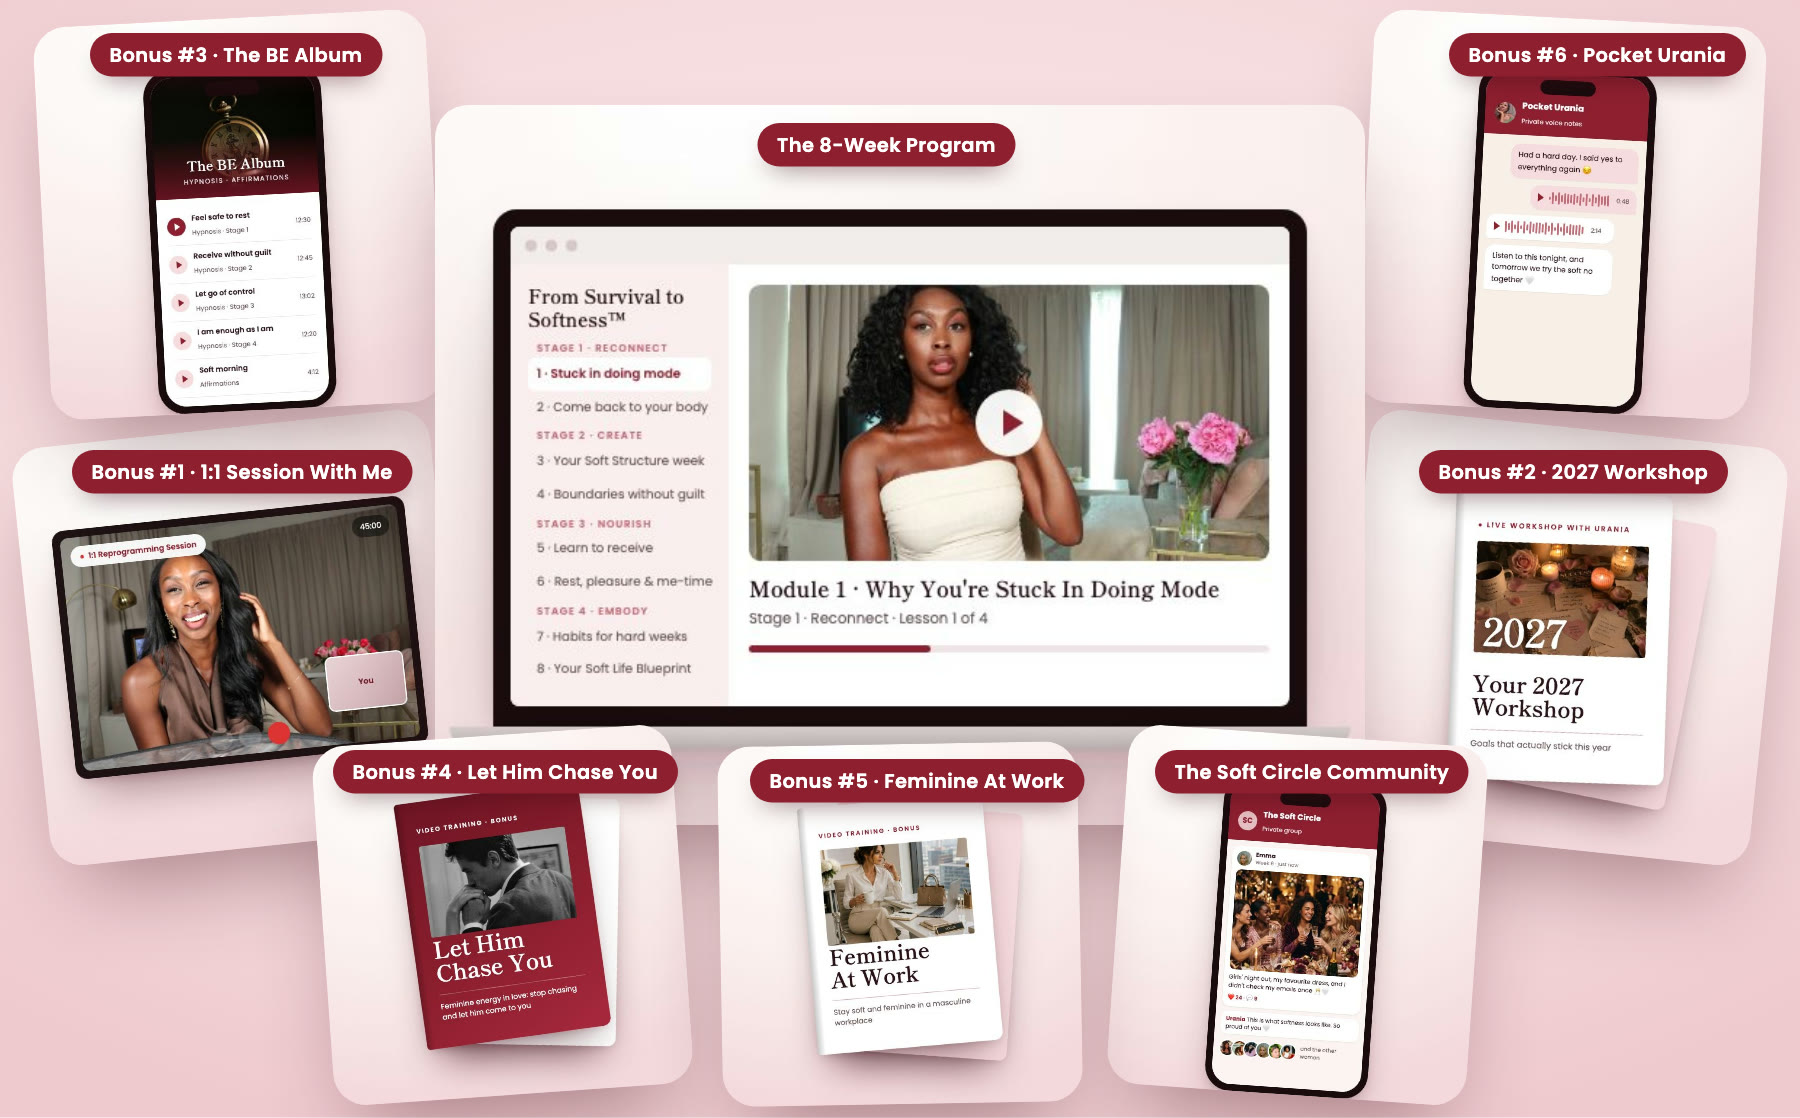
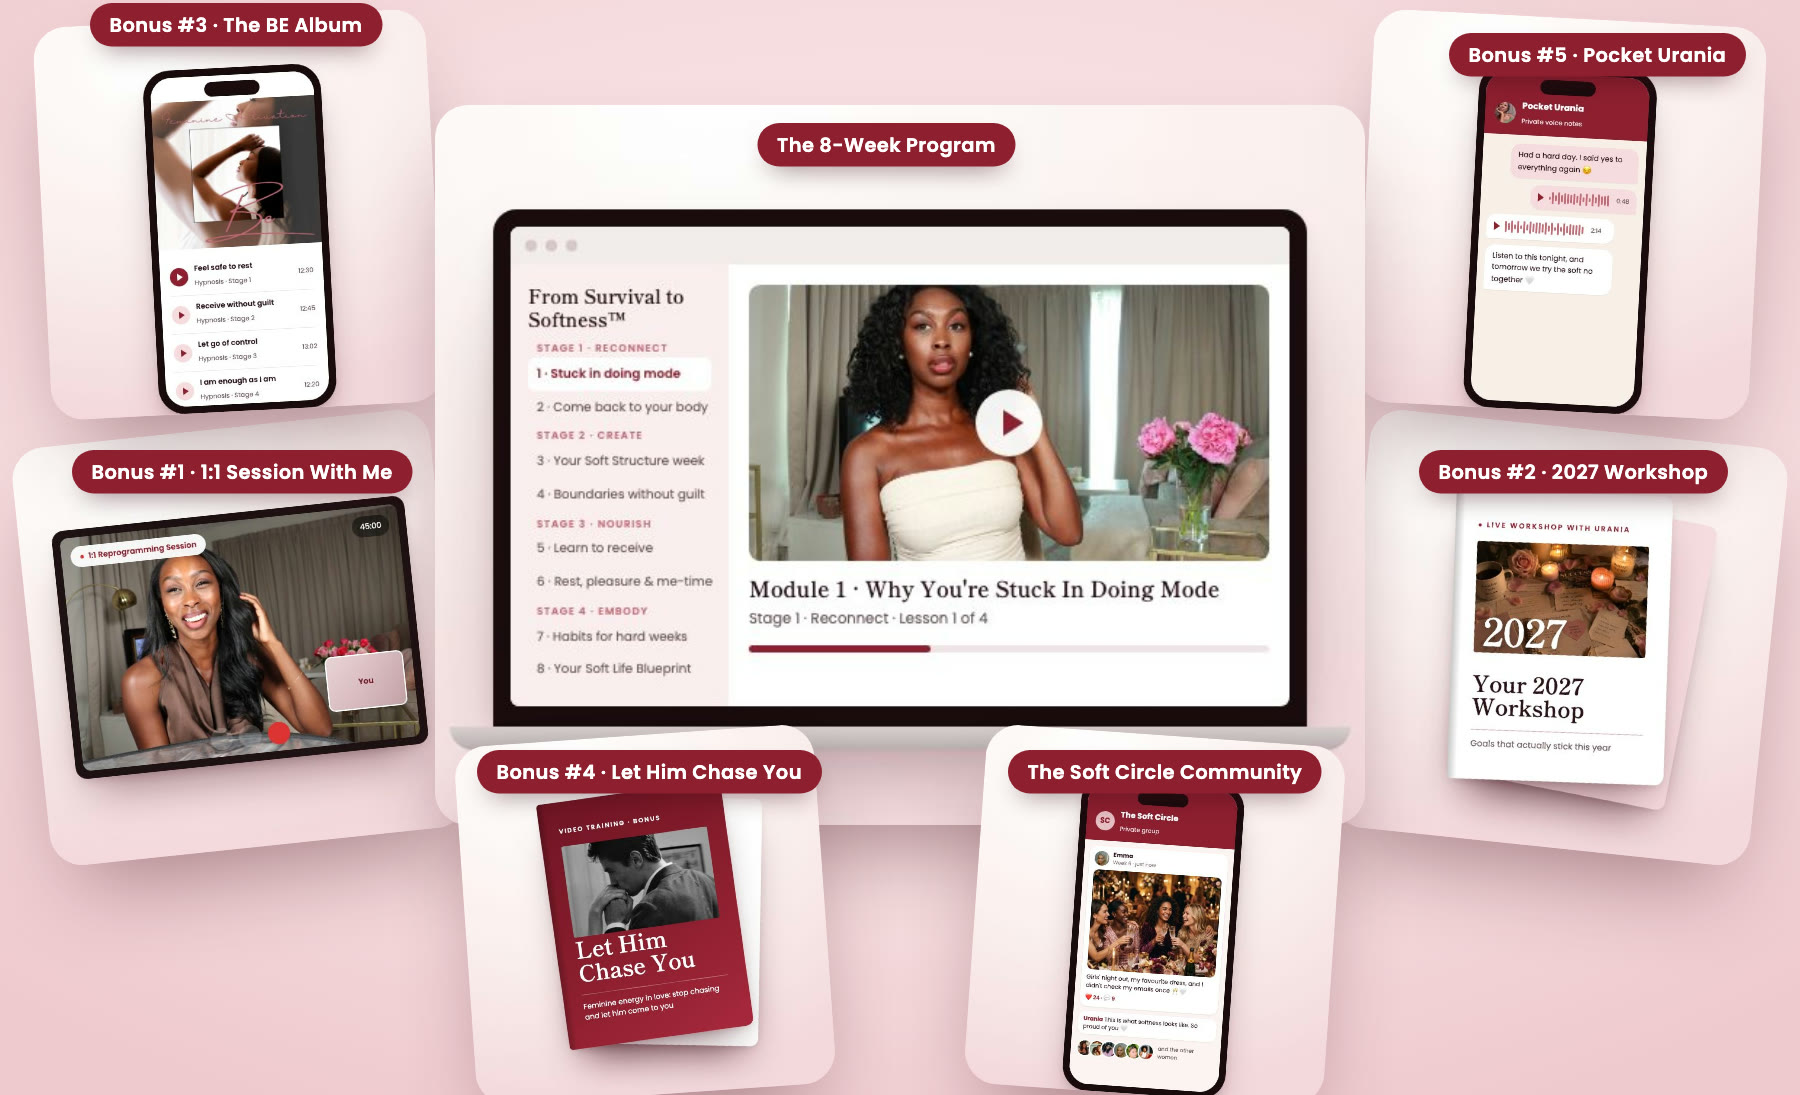
Drop Feminine At Work and story; BE cover; total back to $5,985

diff --git a/index.html b/index.html
@@ -244,7 +244,7 @@ footer{padding:30px 20px 44px;text-align:center;font-size:13px;color:var(--mute)
       </div>
     </div>
 
-    <a class="btn big" href="#join">Claim My Spot Now<span class="anchor-in">Normally $6,282 - Yours For $697</span></a>
+    <a class="btn big" href="#join">Claim My Spot Now<span class="anchor-in">Normally $5,985 - Yours For $697</span></a>
   </div>
 </header>
 
@@ -255,24 +255,22 @@ footer{padding:30px 20px 44px;text-align:center;font-size:13px;color:var(--mute)
       <p class="secure">Secure your spot today</p>
       <img class="bundle" src="img/bundle.jpg" alt="The program, the reprogramming session, the hypnosis sessions and the journal">
 
-      <div class="chk"><h3><span class="k">The From Survival to Softness™ 8-Week Program</span></h3><p>My signature 4-stage program that takes you from survival mode to a soft, calm life in 8 weeks. You'll discover which of the 4 Faces of Survival Mode is running your life (most women are surprised by theirs), build your Soft Structure week with real room for you (including my Plan Your Week calendar training, the videos you love on my channel), learn to receive rest and help without guilt, and leave with your own Soft Life Blueprint. Plus 6 live coaching calls with me, together with the other women in the program. ($2,997 Value)</p></div>
+      <div class="chk"><h3><span class="k">The From Survival to Softness™ 8-Week Program</span></h3><p>My signature 4-stage program that takes you from survival mode to a soft, calm life in 8 weeks. You'll discover which of the 4 Faces of Survival Mode is running your life (most women are surprised by theirs), build your Soft Structure week with real room for you (including my Plan Your Week calendar training, the videos you love on my channel), learn to receive rest and help without guilt, stay soft and feminine even in a workplace run on masculine energy, and leave with your own Soft Life Blueprint. Plus 6 live coaching calls with me, together with the other women in the program. ($2,997 Value)</p></div>
 
       <div class="chk"><h3><span class="k">BONUS #1:</span> Your Private 1:1 Subconscious Reprogramming Session With Me</h3><p>Imagine the thing that's holding you back, finally gone. Most beliefs that run your life sit so deep you don't even know they're there. In this private 45-minute session, you pick the topic, like self-worth, love or money, and we change the belief at the root. You walk away lighter than you've felt in years, and this time it stays for good. ($397 Value)</p></div>
 
       <div class="chk"><h3><span class="k">BONUS #2:</span> My Private Live 2027 Workshop: Plan The Year You Actually Want (And Follow Through This Time)</h3><p>Every January you set big goals, and by February they're gone. In early January we meet live, and I show you how to set your 2027 goals the feminine way, so they actually stick, even on hard weeks. You set them together with me and the other women, so you're never doing it alone. ($297 Value)</p></div>
 
-      <div class="chk"><h3><span class="k">BONUS #3:</span> The BE Album: My Hypnosis &amp; Affirmations Album For Women Who Can't Switch Off</h3><p>No more lying awake at 2am, replaying tomorrow's to-do list. I'm certified in hypnosis, and BE is my album of 4 guided hypnosis sessions, one for every stage, plus my morning and evening affirmations. They reach the guilt when you sit down, the racing thoughts at night and the need to control everything. My meditations have over 1 million views on YouTube, and these are exclusive only for the women in this program. ($497 Value)</p></div>
+      <div class="chk"><h3><span class="k">BONUS #3:</span> The BE Album: My Hypnosis &amp; Affirmations Album For Women Who Can't Switch Off</h3><p>No more lying awake at 2am, replaying tomorrow's to-do list. As a certified hypnosis practitioner, I created BE, my album of 4 guided hypnosis sessions, one for every stage, plus my morning and evening affirmations. They reach the guilt when you sit down, the racing thoughts at night and the need to control everything. My meditations have over 1 million views on YouTube, and these are exclusive only for the women in this program. ($497 Value)</p></div>
 
       <div class="chk"><h3><span class="k">BONUS #4:</span> Let Him Chase You: How To Stop Doing All The Work In Love &amp; Become The Woman A Man Can't Help But Pursue</h3><p>Imagine a man planning the date, booking the table and picking you up, while all you do is get ready and enjoy it. Survival mode makes you date the way you work: you plan, you chase and you carry it all. In my NEWEST training, made only for the women in this program, I show you how to stop chasing, keep high standards without being hard, and let yourself receive, whether you're single, dating or the one who does everything in your relationship. ($297 Value)</p></div>
 
-      <div class="chk"><h3><span class="k">BONUS #5:</span> Feminine At Work: How To Stay Soft &amp; Feminine In A Masculine Workplace</h3><p>You can lead the meeting and still go home feeling like a woman. Most of us switch into our masculine at 9am and never switch back, not even at dinner. In this training I show you how to stay connected to your feminine at work, set boundaries without being hard and stop bringing the office home with you. ($297 Value)</p></div>
-
-      <div class="chk"><h3><span class="k">BONUS #6:</span> Pocket Urania: 8 Weeks Of Voice-Note Access To Me <span class="only">Only 7 spots</span></h3><p>When something comes up on a Tuesday, you don't have to wait for the next call. Whatever you need, send me a voice note and I answer you personally, for all 8 weeks. I only have room for 7 women in Pocket Urania, because I want to give every one of you my full attention. Once the 7 spots are taken, it's gone from this offer. ($1,500 Value)</p></div>
+      <div class="chk"><h3><span class="k">BONUS #5:</span> Pocket Urania: 8 Weeks Of Voice-Note Access To Me <span class="only">Only 7 spots</span></h3><p>When something comes up on a Tuesday, you don't have to wait for the next call. Whatever you need, send me a voice note and I answer you personally, for all 8 weeks. I only have room for 7 women in Pocket Urania, because I want to give every one of you my full attention. Once the 7 spots are taken, it's gone from this offer. ($1,500 Value)</p></div>
 
       <div class="chk"><h3><span class="k">YOU ALSO GET:</span> The Soft Circle Community (Lifetime Access)</h3><p>A circle of women who cheer for you the day you finally say no. Doing everything alone is how most of us ended up in survival mode. When you join From Survival to Softness™, you get immediate access to the Soft Circle, my private community where you connect with the other women in the program, plus lifetime access to every lesson and recording.</p></div>
 
       <div class="totals">
-        <p class="tv">Total Value <s>$6,282</s></p>
+        <p class="tv">Total Value <s>$5,985</s></p>
         <p class="np">Normal Price: $997</p>
         <p class="today">ONLY $697 TODAY</p>
         <a class="btn wide" href="#checkout">CLAIM MY SPOT NOW</a>
@@ -304,21 +302,9 @@ footer{padding:30px 20px 44px;text-align:center;font-size:13px;color:var(--mute)
         <li>You put on the dress you were saving "for a special occasion", look in the mirror and finally recognise yourself: soft, calm, feminine and still ambitious.</li>
       </ul>
       <p class="turn">This isn't a fantasy. <b>It's what happens when your body finally feels safe enough to slow down.</b></p>
+      <p class="center" style="margin-top:26px"><a class="btn" href="#checkout">CLAIM MY SPOT NOW<span class="anchor-in">Normally $5,985 - Yours For $697</span></a></p>
     </div>
 
-    <div class="story story-wrap">
-      <div class="story-photo"><img src="img/soft.jpg" alt="Urania Nelom smiling, resting her chin on her hand"></div>
-      <div>
-        <span class="eyebrow">My story</span>
-        <h2>I Know This Is Possible, Because I Lived The Opposite For 20 Years</h2>
-        <p>In April 2018 I woke up at 5am and half of my face wouldn't move. I was 27, and I thought I was having a stroke. It was Bell's palsy, and half of my face stayed paralysed for three months.</p>
-        <p>When the doctor asked what was going on in my life, I said: "Stress? No... that's just my life." I was the good girl and the strong one, the one who said yes when she meant no and never asked for help.</p>
-        <p>It took me 6 years to find my way out, one small step at a time. Today I rest without feeling guilty, I put myself on my own list, and I live the soft, feminine life I used to think was only for other women.</p>
-        <p><b>From Survival to Softness™ is everything that took me 6 years, given to you step by step in 8 weeks, so you don't have to wait for your body to force you to stop.</b></p>
-        <div class="stats"><div><b>150K+</b><span>women on YouTube</span></div><div><b>1M+</b><span>views on my meditations</span></div><div><b>6 years</b><span>teaching women to soften</span></div></div>
-        <a class="btn" href="#checkout">CLAIM MY SPOT NOW<span class="anchor-in">Normally $6,282 - Yours For $697</span></a>
-      </div>
-    </div>
   </div>
 </section>
 
@@ -367,11 +353,11 @@ footer{padding:30px 20px 44px;text-align:center;font-size:13px;color:var(--mute)
   <div class="wrap">
     <h2 class="faq-title">Frequently Asked Questions</h2>
     <div class="faq-grid">
-      <details open><summary>When does it start, and how long does it take?</summary><p>The live part starts on Saturday 21 November and runs for 8 weeks until Saturday 16 January. But you don't have to wait: the moment you join, you get all the lessons, the BE album, Let Him Chase You and Feminine At Work, so you can start today. The 6 live coaching calls, your 1:1 session with me and Pocket Urania (if you get one of the 7 spots) start on 21 November. Plan for about 1 to 2 hours a week.</p></details>
+      <details open><summary>When does it start, and how long does it take?</summary><p>The live part starts on Saturday 21 November and runs for 8 weeks until Saturday 16 January. But you don't have to wait: the moment you join, you get all the lessons, the BE album and Let Him Chase You, so you can start today. The 6 live coaching calls, your 1:1 session with me and Pocket Urania (if you get one of the 7 spots) start on 21 November. Plan for about 1 to 2 hours a week.</p></details>
       <details><summary>What if I can't make a live session?</summary><p>Every session is recorded and you keep lifetime access, so you can watch it when it suits you. You can also send me your question beforehand.</p></details>
       <details><summary>Is this group coaching or private coaching?</summary><p>Both. The live sessions are with a small group of women, and every woman who joins also gets a private 1:1 subconscious reprogramming session with me. And if you get one of the 7 spots in Pocket Urania, you can send me a voice note whenever you need me between sessions.</p></details>
       <details><summary>"I'm already so busy. How will I find the time?"</summary><p>That's exactly who this program is for. Nothing here asks you to add more to your plate. We start by making space, and the Hard Week Protocol gives you a 10-minute version of everything for the weeks when life gets loud.</p></details>
-      <details><summary>"Urania, what if I don't have the budget right now?"</summary><p>I understand. Learning what's inside this program cost me 20 years in survival mode, three months with half of my face paralysed and 6 years of finding my way out. Everything inside is worth $6,282, and today you get all of it for $697.</p><p>And here's what I've seen: survival mode is expensive. It's the takeaway because you're too tired to cook, the things you buy to feel better for one evening, and the chances you say no to because you have nothing left. When you come out of it, you get your energy and your clear head back. You show up differently at work, in your business and in love, and you naturally find a way to make things work.</p><p>The $697 price is only for this round.</p></details>
+      <details><summary>"Urania, what if I don't have the budget right now?"</summary><p>I understand. Learning what's inside this program cost me 20 years in survival mode, three months with half of my face paralysed and 6 years of finding my way out. Everything inside is worth $5,985, and today you get all of it for $697.</p><p>And here's what I've seen: survival mode is expensive. It's the takeaway because you're too tired to cook, the things you buy to feel better for one evening, and the chances you say no to because you have nothing left. When you come out of it, you get your energy and your clear head back. You show up differently at work, in your business and in love, and you naturally find a way to make things work.</p><p>The $697 price is only for this round.</p></details>
       <details><summary>"Is now really the right time? It's almost Christmas."</summary><p>Did you just ask me if right before Christmas is the right time to stop living in survival mode? 😅 December is exactly when the strong one does everything: the gifts, the cooking, the hosting and everyone's feelings. This year you go through it with me and the other women by your side, and you start January with your 2027 plan instead of another burnout.</p></details>
       <details><summary>"I already watch your videos. Why join the program?"</summary><p>Videos give you ideas, and the program gives you your own plan. Inside, you build your personal Soft Life Blueprint step by step, you get live coaching, a 1:1 reprogramming session with me and support between sessions, so it doesn't stay a nice idea you forget by Monday.</p></details>
       <details><summary>Is this only about feminine energy?</summary><p>No. Feminine energy is part of it, but this is also very practical: your morning, your week, your boundaries and your calendar. The inner work helps you know what you need, and the practical work makes room for it.</p></details>
@@ -381,7 +367,7 @@ footer{padding:30px 20px 44px;text-align:center;font-size:13px;color:var(--mute)
 </section>
 
 <section class="end">
-  <a class="btn" href="#checkout">CLAIM MY SPOT NOW<span class="anchor-in">Normally $6,282 - Yours For $697</span></a>
+  <a class="btn" href="#checkout">CLAIM MY SPOT NOW<span class="anchor-in">Normally $5,985 - Yours For $697</span></a>
   <p class="call">Not sure it's for you? <a href="https://calendly.com/coachurania/survial-to-softness-clarity-call">Book a free call with me</a></p>
 </section>
 
